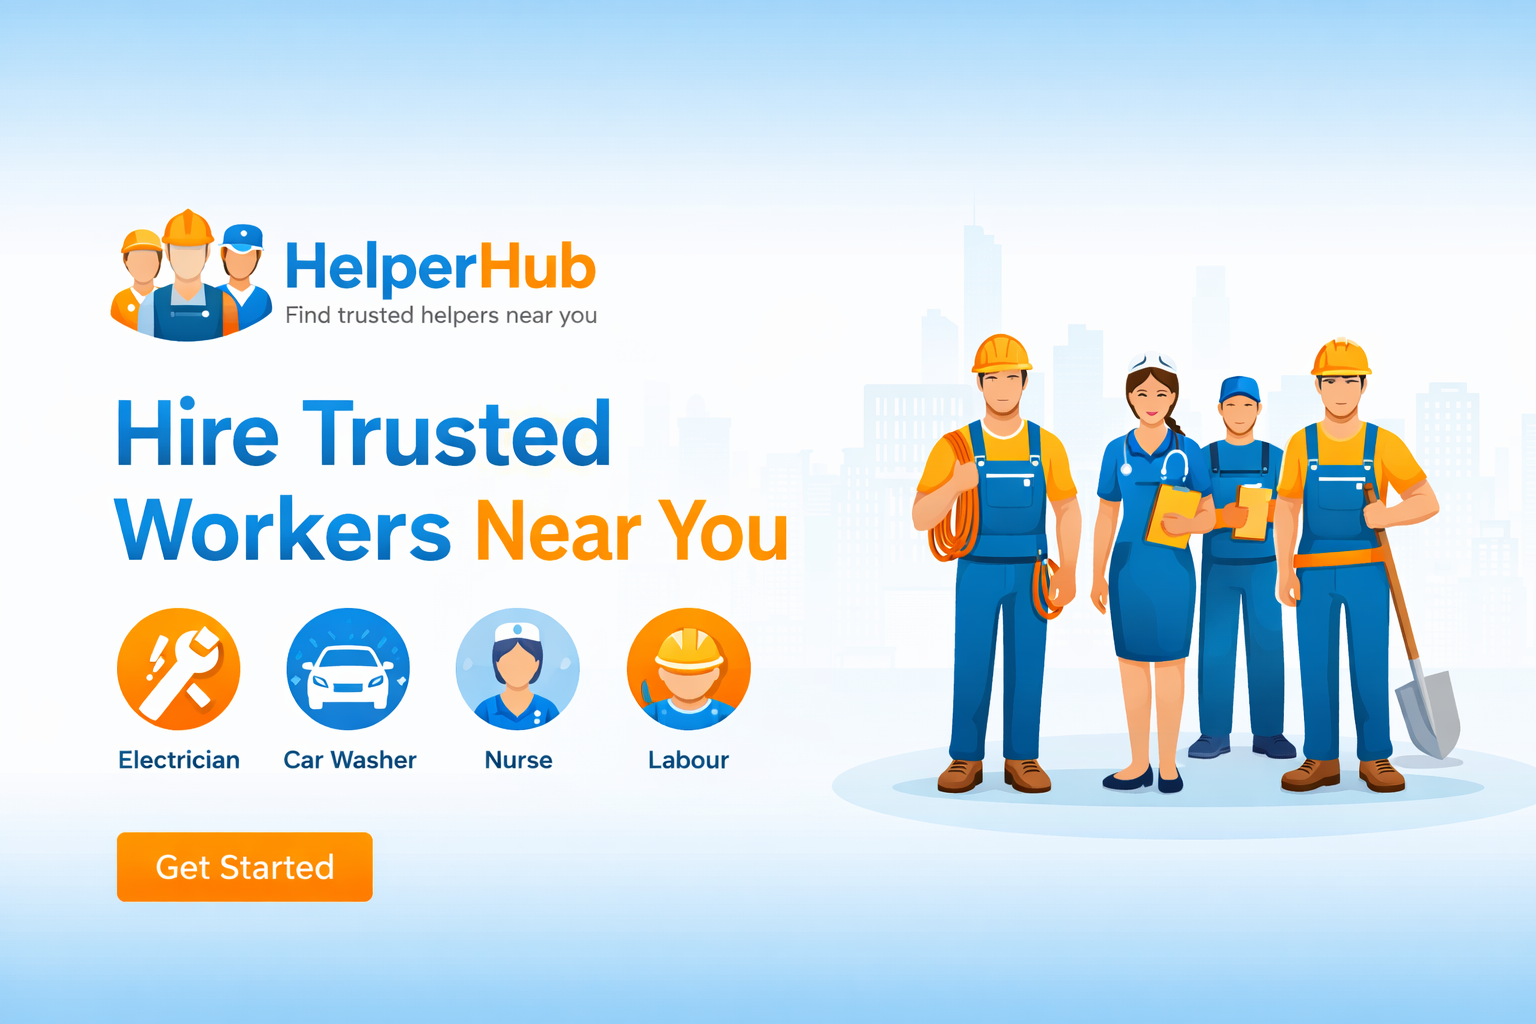
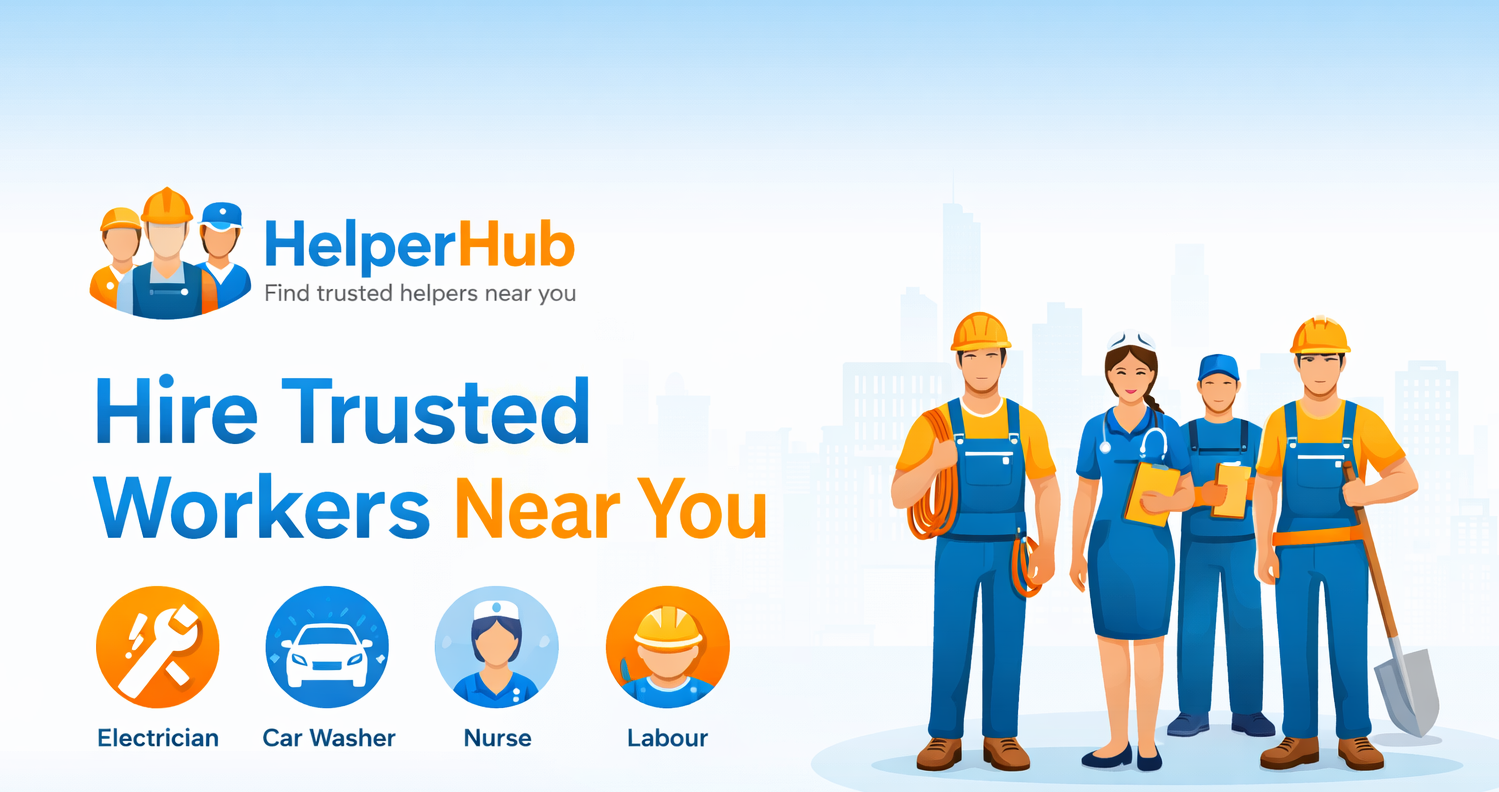
hero section done

diff --git a/src/Components/Home.jsx b/src/Components/Home.jsx
@@ -1,9 +1,46 @@
-import React from 'react'
+import banner from "../assets/bannermain.png";
+import electrician from "../assets/electrician.png";
 
 const Home = () => {
   return (
-    <div>Home</div>
-  )
-}
+    <div>
+      <div className=" w-full ">
+        <img className="w-500 h-160" src={banner} alt="Banner" />
+        <div className="absolute top-50 px-20">
+          <h1 className="text-8xl font-extrabold text-blue-500 ">
+            Helper<span className="text-amber-600">Hub</span>{" "}
+          </h1>
+          <p className=" py-4 text-4xl font-bold bg-linear-to-r from-purple-500 to-green-400 bg-clip-text text-transparent">
+            Hire Trusted Helpers Near You
+          </p>
+          <div className="py-4 ">
+            <p className="font-bold text-xl">
+              Electricians, plumbers, nurses, mechanics, and even Babysitter —
+              all <span className="text-cyan-600">at one place</span>. <br />
+              <span className="text-gray-500">
+                Verified professionals
+              </span>,{" "}
+              <span className="text-gray-500">transparent pricing</span>, and{" "}
+              <span className="text-lime-600">quick booking</span>. <br />
+              <span className="bg-linear-to-r from-blue-500 to-red-400 bg-clip-text text-transparent">
+                Trusted local help for every home need
+              </span>
+            </p>
+          </div>
+          <div className="flex gap-24 h-16 mt-10  font-medium ">
+            {" "}
+            <button className="w-36  bg-blue-400 hover:bg-green-600 rounded-lg cursor-pointer">Find Helpers</button>
+            <button className="w-36 bg-cyan-300 hover:bg-amber-600 rounded-lg cursor-pointer">Register as Helper</button>
+          </div>
 
-export default Home
+          {/* / <p className=' text-2xl font-bold'>Electricians, plumbers, nurses, labourers, and mechanics <br /> etc — all at one place.</p> */}
+        </div>
+      </div>
+      <div>
+        <div><h1>Our Services</h1></div>
+      </div>
+    </div>
+  );
+};
+
+export default Home;

diff --git a/src/Header.jsx b/src/Header.jsx
@@ -4,7 +4,7 @@ import { Link } from "react-router-dom";
 
 const Header = () => {
   return (
-    <div className="w-full h-28 text-white shadow-xl shadow-cyan-100 bg-zinc-100 flex justify-between  sticky top-0">
+    <div className="w-full h-28 text-white shadow-xl shadow-cyan-100 bg-linear-to-r from-cyan-400 to-gray-200 flex justify-between  sticky top-0">
       <div>
         <img className="w-106 rounded-sm" src={logo} alt="" />
       </div>

diff --git a/src/index.css b/src/index.css
@@ -2,7 +2,7 @@
 .ul-item {
   /* Mobile (default) */
   @apply px-2 py-1.5 text-sm text-gray-700 font-medium cursor-pointer rounded-md
-         bg-amber-300 hover:bg-zinc-700 hover:text-blue-100 transition;
+         hover:bg-zinc-700 hover:text-blue-100 transition;
 
   /* Tablet */
   @apply md:px-3 md:py-2 md:text-base md:rounded-lg;

diff --git a/src/Body.jsx b/src/Body.jsx
@@ -8,7 +8,7 @@ const Body = () => {
   return (
     <div>
      <Home/>
-     <Services/>
+    
 
     </div>
   );
